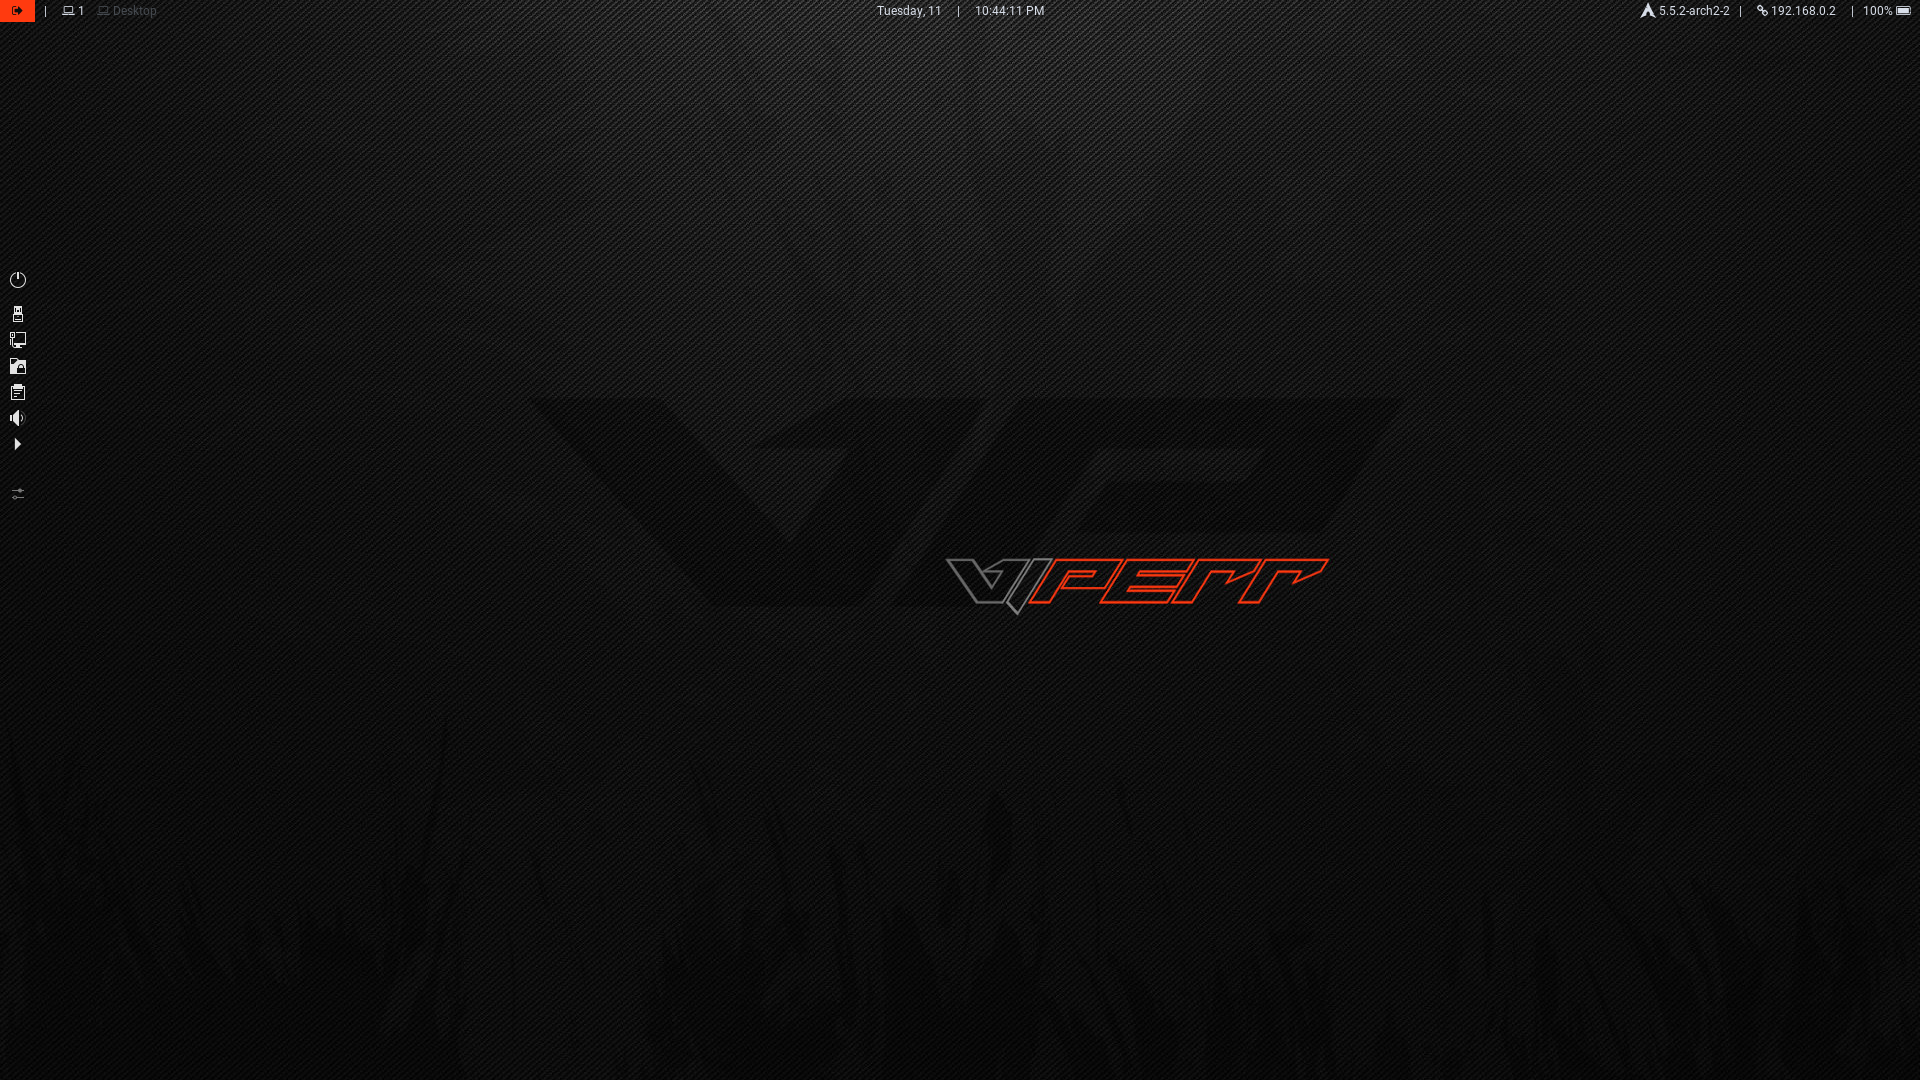
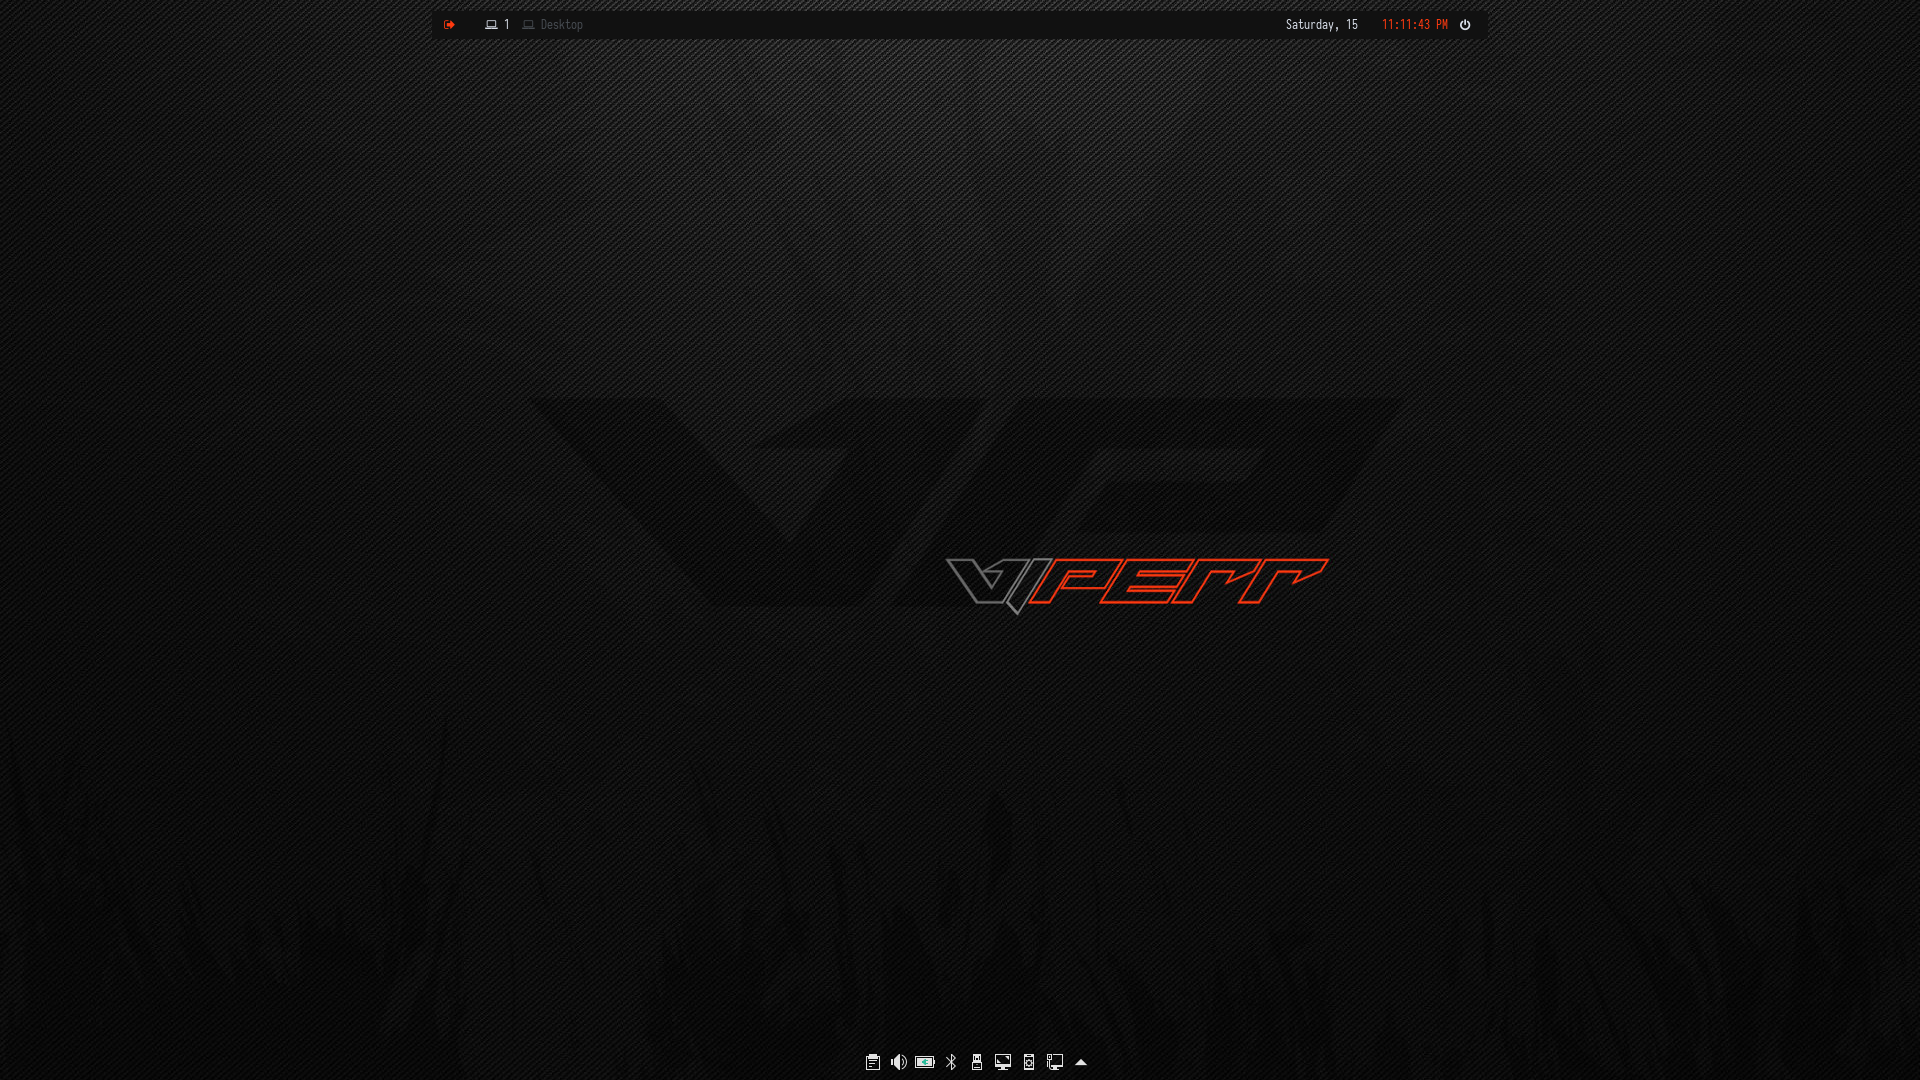
Update screenshots,polybar and add i3lock

diff --git a/README.md b/README.md
@@ -1,6 +1,7 @@
 ![repo list](screenshots/bspwm.png)
 ![repo list](screenshots/bspwm1.png)
 ![repo list](screenshots/bspwm2.png)
+![repo list](screenshots/bspwm3.png)
 
 # dotfiles WIP
 
